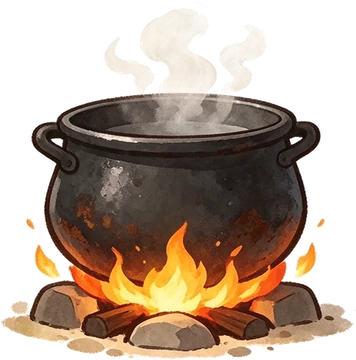
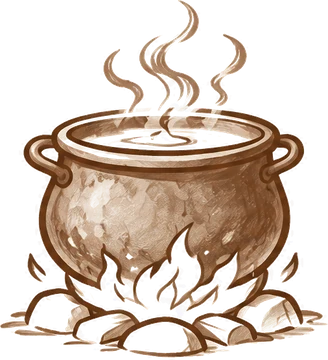
v283: рисунки этапов рецепта — сепия-наброски вместо цветных

diff --git a/index.html b/index.html
@@ -360,7 +360,7 @@ body.overview .hud, body.overview .stick-zone, body.overview .guide, body.overvi
 <script>
 // ===================== Общие настройки =====================
 const DPR = Math.min(window.devicePixelRatio || 1, 3);
-const GAME_VERSION = 282;   // совпадает с номером в sw.js (farm-vN); видно в окне «Заново»
+const GAME_VERSION = 283;   // совпадает с номером в sw.js (farm-vN); видно в окне «Заново»
 // Слои земли (трава, дорожки, поля, тени) — глубже любых персонажей и деревьев, даже с отрицательной y
 const GROUND = -5000;
 // Карта: y от −1000 до 2000. Верх (y < 0) — поле с пшеницей, низ (y > 1000) — пастбище Эйнара

diff --git a/sw.js b/sw.js
@@ -4,7 +4,7 @@
 //  • картинки и движок — сразу из сохранённой копии (без похода в сеть при каждом запуске).
 //    Когда выходит новая версия (меняется CACHE), новый service worker при установке
 //    заново скачивает все файлы с меткой версии — гарантированно свежие.
-const CACHE = 'farm-v282';
+const CACHE = 'farm-v283';
 const CORE = [
   './',
   './index.html',
